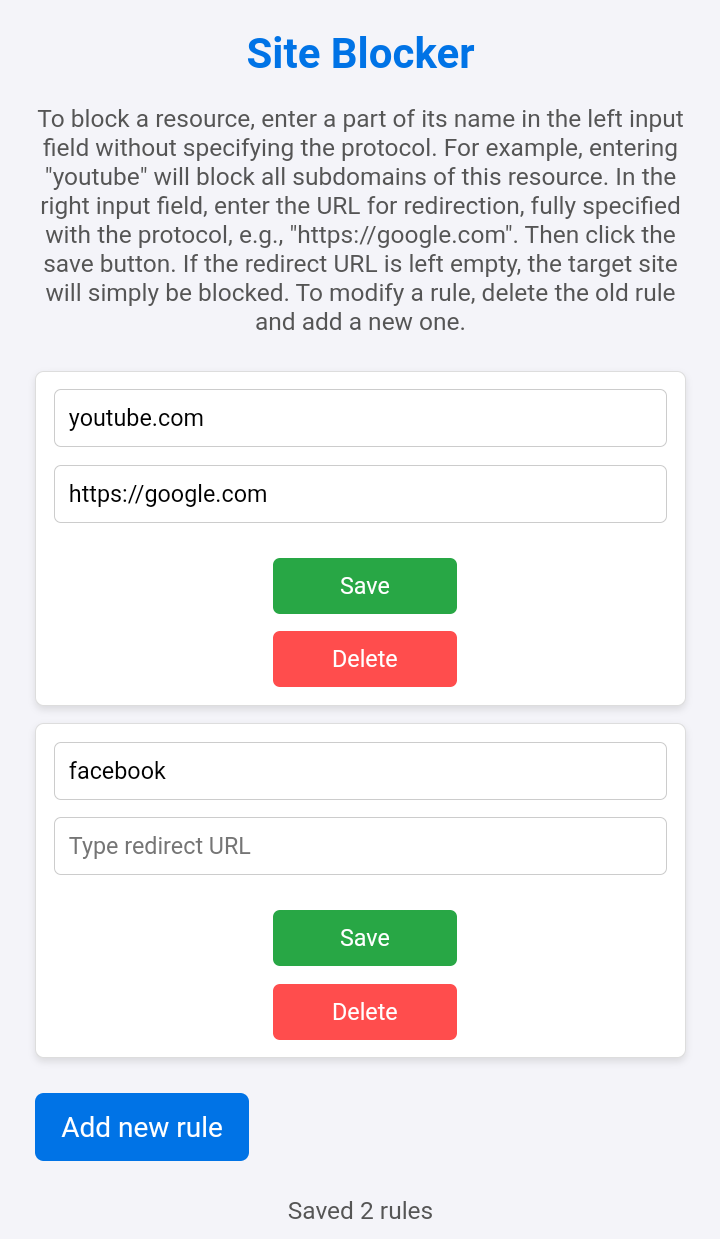
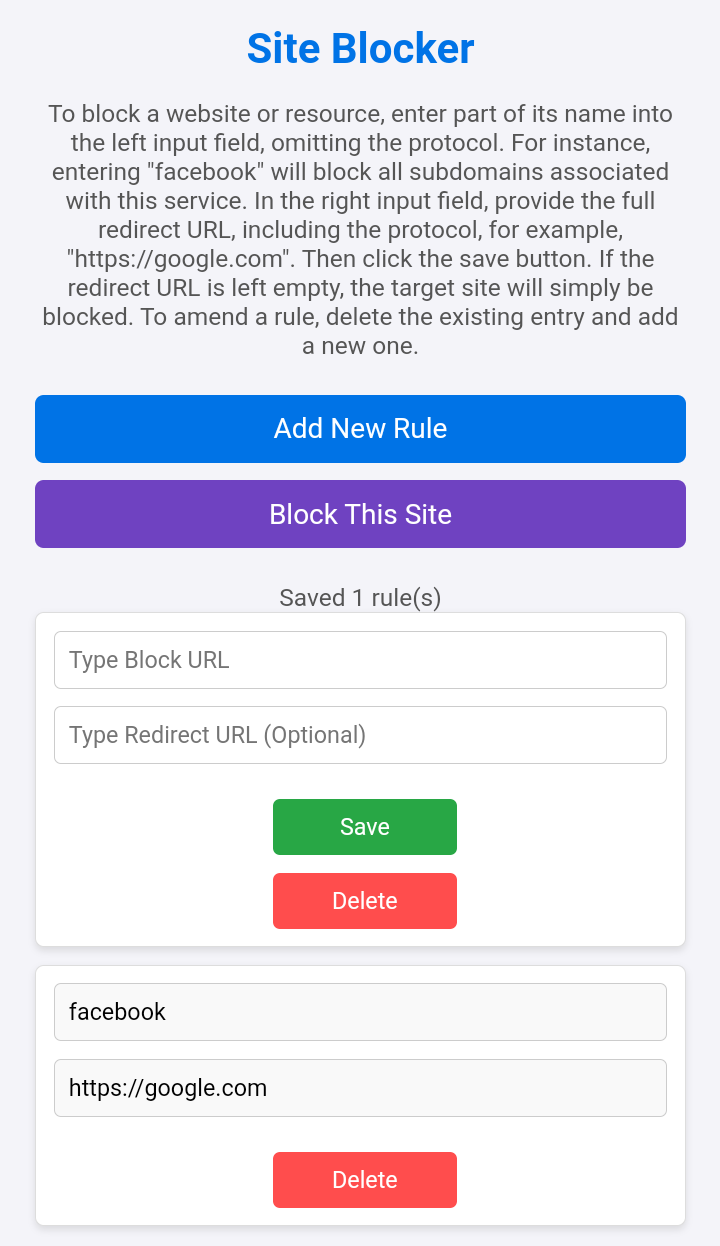
feat: release version 2.0.0 with improved rule system and UI updates
- Switched to flexible substring-based blocking (urlFilter logic)
- Improved dynamic rule generation for both block and redirect actions
- Redesigned popup UI for better responsiveness and clarity
- Added separate "Block This Site" button with contextual behavior
- Updated styles for buttons and layout consistency across screen sizes
- Refactored codebase for better modularity and maintainability

Changed region(s): [[0.0306, 0.0, 0.9778, 0.9814], [0.0917, 0.6747, 0.3361, 0.7054]]

diff --git a/popup.js b/popup.js
@@ -2,6 +2,8 @@ import { customAlert } from './scripts/customAlert.js';
 import { isValidURL } from './scripts/isValidURL.js';
 import { isValidAscii } from './scripts/isValidAscii.js';
 import { isOnlyLowerCase } from './scripts/isOnlyLowerCase.js';
+import { isBlockedURL } from './scripts/isBlockedURL.js';
+import { getCurrentTabs } from './scripts/getCurrentTabs.js';
 
 const donateSpan = document.getElementById('donate-text');
 const donateSpanText = chrome.i18n.getMessage('donatespantext');
@@ -25,6 +27,55 @@ const rulesContainer = document.getElementById('rules-container');
 const addRuleButton = document.getElementById('add-rule');
 const statusOutput = document.getElementById('status');
 
+let thisTabs = [];
+
+(async () => {
+  thisTabs = await getCurrentTabs();
+  
+  chrome.storage.sync.get('rules', ({ rules }) => {
+    rules = rules || [];
+    
+    rules.forEach(rule => {
+      createRuleInputs(rule.blockURL, rule.redirectURL);
+    });
+    
+    const currentUrl = normalizeUrlFilter(thisTabs[0]?.url || '');
+    const alreadyBlocked = rules.some(rule => rule.blockURL === currentUrl);
+    
+    if (!isBlockedURL(thisTabs) && !alreadyBlocked) {
+      createBlockThisSiteButton(currentUrl);
+    }
+  });
+})();
+
+//add favicon
+const createBlockThisSiteButton = (url) => {
+  const newButton = document.createElement('button');
+  newButton.id = 'block-that';
+  newButton.textContent = chrome.i18n.getMessage('blockthat');
+  
+  newButton.addEventListener('click', () => {
+    chrome.storage.sync.get('rules', ({ rules }) => {
+      rules = rules || [];
+      
+      const alreadyExists = rules.some(rule => rule.blockURL === url);
+      if (!alreadyExists) {
+        rules.push({ blockURL: url, redirectURL: '' });
+        chrome.storage.sync.set({ rules }, () => {
+          createRuleInputs(url, '');
+          const outputText = chrome.i18n.getMessage('savedrules', ' ' + rules.length + ' ');
+          statusOutput.value = outputText;
+          customAlert('+ 1');
+          
+          newButton.remove();
+        });
+      }
+    });
+  });
+  
+  addRuleButton.insertAdjacentElement('afterend', newButton);
+};
+
 const wrongRedirectUrl = chrome.i18n.getMessage('wrongredirecturl');
 const blockUrlOnlyAscii = chrome.i18n.getMessage('blockurlonlyascii');
 const blockUrlOnlyLower = chrome.i18n.getMessage('blockurlonlylower');
@@ -35,15 +86,7 @@ function makeInputReadOnly(el) {
   el.classList.add('input-readonly');
 }
 
-chrome.storage.sync.get('rules', ({ rules }) => {
-  if (rules) {
-    rules.forEach(rule => {
-      createRuleInputs(rule.blockURL, rule.redirectURL);
-    });
-  }
-});
-
-function createRuleInputs(blockURLValue = '', redirectURLValue = '', currSite = false) {
+function createRuleInputs(blockURLValue = '', redirectURLValue = '') {
   
   const ruleDiv = document.createElement('div');
   ruleDiv.className = 'rule';
@@ -98,8 +141,6 @@ function createRuleInputs(blockURLValue = '', redirectURLValue = '', currSite = 
       }
     });
   }
-  
-  currSite && createNewRule();
   
   const createSaveButton = () => {
     saveButton = document.createElement('button');

diff --git a/scripts/background.js b/scripts/background.js
@@ -1,49 +1,34 @@
 async function storageUpdateHandler(changes) {
   const template = changes.rules.newValue.slice();
-
+  
   const newRules = template.map((rule, i) => {
-    const newRule = rule.redirectURL !== '' ?
-      JSON.parse(`{
-        "action": {
-          "redirect": {
-            "url": "${rule.redirectURL}"
-          },
-          "type": "redirect"
-        },
-        "condition": {
-          "urlFilter": "||${rule.blockURL}",
-          "resourceTypes": [
-            "main_frame"
-          ]
-        },
-        "id": ${i + 1},
-        "priority": 100
-      }`) :
-      JSON.parse(`{
-        "id": ${i + 1},
-        "condition": {
-          "urlFilter": "||${rule.blockURL}",
-          "resourceTypes": ["main_frame"],
-          "excludedResourceTypes": []
-        },
-        "action": {
-          "type": "block"
-        },
-        "priority": 100
-      }`);
-      
-    return newRule;
+    const filter = normalizeUrlFilter(rule.blockURL);
+    const urlFilter = `||${filter}`;
+    
+    const base = {
+      id: i + 1,
+      condition: {
+        urlFilter,
+        resourceTypes: ["main_frame"]
+      },
+      priority: 100
+    };
+    
+    base.action = rule.redirectURL ?
+      { type: "redirect", redirect: { url: rule.redirectURL } } :
+      { type: "block" };
+    
+    return base;
   });
-
+  
   try {
     const oldRules = await chrome.declarativeNetRequest.getDynamicRules();
-
     await chrome.declarativeNetRequest.updateDynamicRules({
       removeRuleIds: oldRules.map(rule => rule.id),
-      addRules: newRules,
+      addRules: newRules
     });
-  } catch (error) {
-    console.error(error);
+  } catch (e) {
+    console.error("DNR update error:", e);
   }
 }
 

diff --git a/styles/popup.css b/styles/popup.css
@@ -92,19 +92,49 @@ body {
   margin-left: 5px;
 }
 
-#add-rule {
-  background-color: #0073e6;
-  color: white;
+.controls {
+  display: flex;
+  flex-direction: column;
+  gap: 10px;
+  margin-bottom: 20px;
+}
+
+.controls button {
   border: none;
   padding: 10px 15px;
   border-radius: 5px;
   cursor: pointer;
   font-size: 16px;
   transition: background-color 0.3s;
+  flex: 1;
+  color: white;
+}
+
+#add-rule {
+  background-color: #0073e6;
 }
 
 #add-rule:hover {
   background-color: #005bb5;
+}
+
+#block-that {
+  background-color: #6f42c1;
+}
+
+#block-that:hover {
+  background-color: #5936a7;
+}
+
+@media (min-width: 601px) {
+  .controls {
+    flex-direction: row;
+    justify-content: space-between;
+  }
+  
+  .controls button {
+    max-width: 48%;
+  }
 }
 
 #status {

diff --git a/index.html b/index.html
@@ -19,10 +19,13 @@
     <button id="donate-button" role="link" title="Voluntary donation - support development" data-i18n="donatebtntitle">Donate</button>
   </div>
   
-  <button id="add-rule" data-i18n="addrule"></button>
+  <div class="controls">
+    <button id="add-rule" data-i18n="addrule"></button>
+  </div>
   <output id="status"></output>
   <div id="rules-container"></div>
   
+  <script src="scripts/normalizeUrlFilter.js"></script>
   <script src="scripts/background.js"></script>
   <script src="scripts/i18n.js"></script>
   <script type="module" src="popup.js"></script>

diff --git a/scripts/isBlockedURL.js b/scripts/isBlockedURL.js
@@ -1,0 +1,15 @@
+export function isBlockedURL(tabs) {
+  if (!tabs) return true;
+  const url = tabs[0]?.url || '';
+  
+  const blockedPatterns = [
+    /^chrome:\/\//,
+    /^chrome-extension:\/\//,
+    /^https:\/\/chrome\.google\.com\/webstore/,
+    /^https:\/\/chromewebstore\.google\.com/,
+    /^edge:\/\//,
+    /^kiwi:\/\//,
+  ];
+  
+  return blockedPatterns.some(pattern => pattern.test(url));
+}

diff --git a/scripts/getCurrentTabs.js b/scripts/getCurrentTabs.js
@@ -1,0 +1,7 @@
+export async function getCurrentTabs() {
+  return new Promise((resolve) => {
+    chrome.tabs.query({ active: true, currentWindow: true }, (tabs) => {
+      resolve(tabs || []);
+    });
+  });
+}

diff --git a/scripts/normalizeUrlFilter.js b/scripts/normalizeUrlFilter.js
@@ -1,0 +1,8 @@
+function normalizeUrlFilter(input) {
+  try {
+    const url = new URL(input);
+    return url.hostname + url.pathname;
+  } catch (e) {
+    return input;
+  }
+}

diff --git a/README.md b/README.md
@@ -5,7 +5,7 @@
 ![GitHub forks](https://img.shields.io/github/forks/MarkAlexI/blockSiteExtension?style=social)
 ![Last commit](https://img.shields.io/github/last-commit/MarkAlexI/blockSiteExtension)
 ![Issues](https://img.shields.io/github/issues/MarkAlexI/blockSiteExtension)
-[![Chrome Web Store](https://img.shields.io/badge/Chrome%20Web%20Store-v1.36.4-brightgreen?logo=google-chrome)](https://chromewebstore.google.com/detail/kfhgdgokgjmdboidlhphajinmgpcmmec)
+[![Chrome Web Store](https://img.shields.io/badge/Chrome%20Web%20Store-v2.0.0-brightgreen?logo=google-chrome)](https://chromewebstore.google.com/detail/kfhgdgokgjmdboidlhphajinmgpcmmec)
 [![AMO](https://img.shields.io/amo/v/blockersite)](https://addons.mozilla.org/uk/firefox/addon/blockersite/)
 
 ## About
@@ -29,7 +29,7 @@ Both versions work on mobile browsers:
 
 ![blocker.png](/images/blocker.png "blocker")
 ## How to work with extension
-To block a resource, enter a part of its name in the left input field without specifying the protocol. For example, entering "facebook" will block all subdomains of this resource. In the right input field, enter the URL for redirection, fully specified with the protocol, e.g., "https://google.com". Then click the save button. If the redirect URL is left empty, the target site will simply be blocked. To modify a rule, delete the old rule and add a new one.
+To block a website or resource, enter part of its name into the input field with the placeholder "Type Block URL" — for example, "facebook" will block all related subdomains. In the field with the placeholder "Type Redirect URL", enter the full redirect address including the protocol, such as "https://google.com". If the redirect field is left empty, the site will be blocked without redirection. Click the Save button to apply the rule. To update a rule, delete the old one and create a new entry.
 ## Video Demo: [Block Site Extension](https://youtu.be/-z3pXiM_yv8?si=vEEBruG6XABppWQs)
 ### Project Description
 

diff --git a/CHANGELOG.md b/CHANGELOG.md
@@ -1,0 +1,31 @@
+# Changelog
+
+All notable changes to this project will be documented in this file.
+
+The format is based on [Keep a Changelog](https://keepachangelog.com/en/1.0.0/),
+and this project adheres to [Semantic Versioning](https://semver.org/spec/v2.0.0.html).
+
+## [2.0.0] - 2025-05-13
+
+### Added
+- "Block this site" button for quick rule creation
+- Support for partial keyword-based URL blocking
+- Fully responsive layout for popup UI
+
+### Changed
+- Major UI redesign for improved clarity and usability
+- Smarter rule validation and feedback on save
+- Popup layout adapts to browser width (horizontal/vertical input alignment)
+
+### Fixed
+- Rules no longer fail silently when invalid URLs are entered
+- Fixed dynamic rules not applying in some edge cases
+- Corrected fallback behaviors for invalid `tabs` access
+
+### Removed
+- Deprecated synchronous tab query logic in favor of async-safe alternatives
+
+## [1.36.5] - 2025-04-xx
+
+- Minor UI adjustments
+- Fix for inconsistent rule loading in some browser versions
